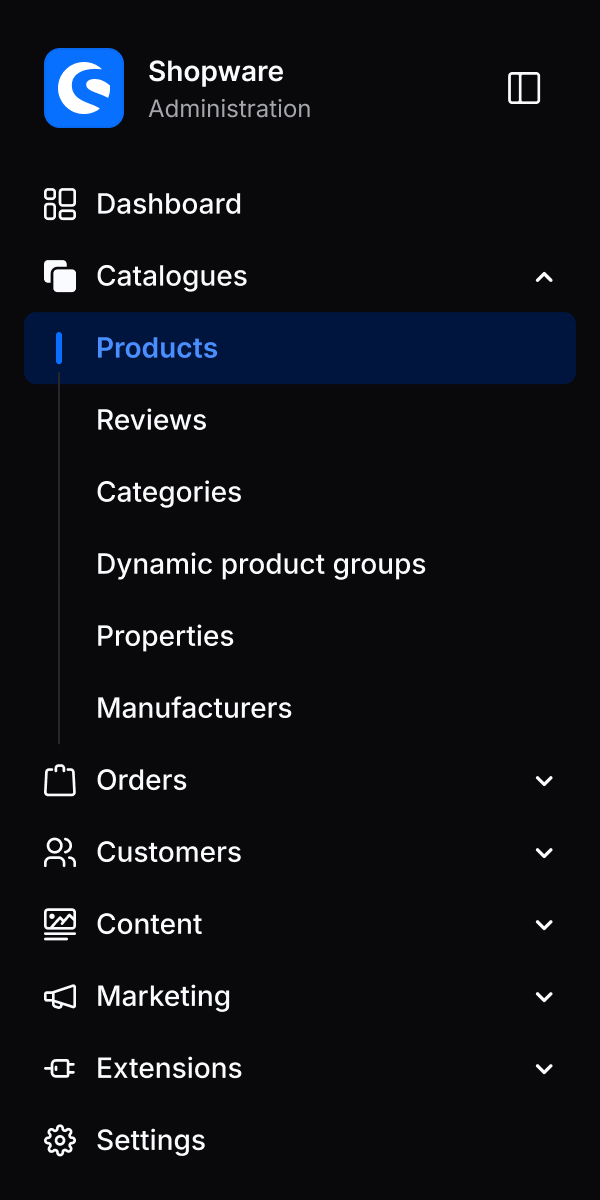
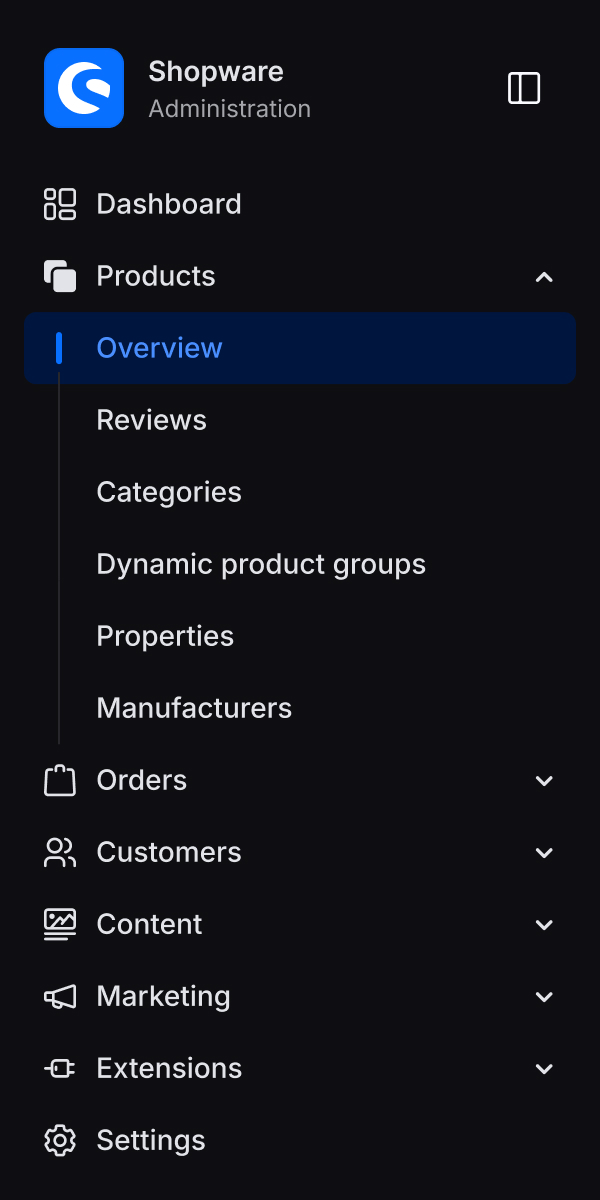
refactor: rename catalogues menu group to products (#20452)

Changed region(s): [[0.15, 0.2158, 0.42, 0.2467], [0.15, 0.2775, 0.36, 0.3083], [0.06, 0.925, 0.12, 0.9867]]

diff --git a/Resources/app/administration/src/module/sw-users-permissions/components/sw-users-permissions-permissions-grid/sw-users-permissions-permissions-grid.spec.js b/Resources/app/administration/src/module/sw-users-permissions/components/sw-users-permissions-permissions-grid/sw-users-permissions-permissions-grid.spec.js
@@ -1506,25 +1506,18 @@ describe('src/module/sw-users-permissions/components/sw-users-permissions-permis
         expect(gridEntries.at(1).classes()).toContain('sw-users-permissions-permissions-grid__parent_catalogues');
         expect(gridEntries.at(2).classes()).toContain('sw-users-permissions-permissions-grid__entry_categories');
         expect(gridEntries.at(3).classes()).toContain('sw-users-permissions-permissions-grid__entry_product');
-
-        // other (null) with children
-        expect(gridEntries.at(4).classes()).toContain('sw-users-permissions-permissions-grid__parent_null');
-        expect(gridEntries.at(5).classes()).toContain('sw-users-permissions-permissions-grid__entry_sales_channel');
-
         // settings with children
-        expect(gridEntries.at(6).classes()).toContain('sw-users-permissions-permissions-grid__parent_settings');
-        expect(gridEntries.at(7).classes()).toContain('sw-users-permissions-permissions-grid__entry_currencies');
+        expect(gridEntries.at(4).classes()).toContain('sw-users-permissions-permissions-grid__parent_settings');
+        expect(gridEntries.at(5).classes()).toContain('sw-users-permissions-permissions-grid__entry_currencies');
+
+        // other (no parent) with children, always last
+        expect(gridEntries.at(6).classes()).toContain('sw-users-permissions-permissions-grid__parent_null');
+        expect(gridEntries.at(7).classes()).toContain('sw-users-permissions-permissions-grid__entry_sales_channel');
     });
 
-    it('should sort parents alphabetically with the label', async () => {
+    it('should sort parents in the order of the main navigation', async () => {
         const wrapper = await createWrapper({
             privilegesMappings: [
-                {
-                    category: 'permissions',
-                    key: 'categories',
-                    parent: 'orders',
-                    roles: {},
-                },
                 {
                     category: 'permissions',
                     key: 'currencies',
@@ -1539,6 +1532,24 @@ describe('src/module/sw-users-permissions/components/sw-users-permissions-permis
                 },
                 {
                     category: 'permissions',
+                    key: 'order',
+                    parent: 'orders',
+                    roles: {},
+                },
+                {
+                    category: 'permissions',
+                    key: 'promotion',
+                    parent: 'marketing',
+                    roles: {},
+                },
+                {
+                    category: 'permissions',
+                    key: 'customer',
+                    parent: 'customers',
+                    roles: {},
+                },
+                {
+                    category: 'permissions',
                     key: 'product',
                     parent: 'catalogues',
                     roles: {},
@@ -1546,14 +1557,97 @@ describe('src/module/sw-users-permissions/components/sw-users-permissions-permis
             ],
         });
 
-        const gridEntries = wrapper.findAll('.sw-users-permissions-permissions-grid__entry');
-        expect(gridEntries).toHaveLength(9);
+        const parentEntries = wrapper.findAll('.sw-users-permissions-permissions-grid__parent');
+        expect(parentEntries).toHaveLength(6);
 
-        // check if order is sorted alphabetically
-        expect(gridEntries.at(1).classes()).toContain('sw-users-permissions-permissions-grid__parent_catalogues');
-        expect(gridEntries.at(3).classes()).toContain('sw-users-permissions-permissions-grid__parent_content');
-        expect(gridEntries.at(5).classes()).toContain('sw-users-permissions-permissions-grid__parent_orders');
-        expect(gridEntries.at(7).classes()).toContain('sw-users-permissions-permissions-grid__parent_settings');
+        expect(parentEntries.at(0).classes()).toContain('sw-users-permissions-permissions-grid__parent_catalogues');
+        expect(parentEntries.at(1).classes()).toContain('sw-users-permissions-permissions-grid__parent_orders');
+        expect(parentEntries.at(2).classes()).toContain('sw-users-permissions-permissions-grid__parent_customers');
+        expect(parentEntries.at(3).classes()).toContain('sw-users-permissions-permissions-grid__parent_content');
+        expect(parentEntries.at(4).classes()).toContain('sw-users-permissions-permissions-grid__parent_marketing');
+        expect(parentEntries.at(5).classes()).toContain('sw-users-permissions-permissions-grid__parent_settings');
+    });
+
+    it('should sort unknown parents alphabetically after the known ones and "other" last', async () => {
+        const wrapper = await createWrapper({
+            privilegesMappings: [
+                {
+                    category: 'permissions',
+                    key: 'no_parent',
+                    parent: null,
+                    roles: {},
+                },
+                {
+                    category: 'permissions',
+                    key: 'zeta',
+                    parent: 'zeta_plugin',
+                    roles: {},
+                },
+                {
+                    category: 'permissions',
+                    key: 'currencies',
+                    parent: 'settings',
+                    roles: {},
+                },
+                {
+                    category: 'permissions',
+                    key: 'alpha',
+                    parent: 'alpha_plugin',
+                    roles: {},
+                },
+                {
+                    category: 'permissions',
+                    key: 'product',
+                    parent: 'catalogues',
+                    roles: {},
+                },
+            ],
+        });
+
+        const parentEntries = wrapper.findAll('.sw-users-permissions-permissions-grid__parent');
+        expect(parentEntries).toHaveLength(5);
+
+        expect(parentEntries.at(0).classes()).toContain('sw-users-permissions-permissions-grid__parent_catalogues');
+        expect(parentEntries.at(1).classes()).toContain('sw-users-permissions-permissions-grid__parent_settings');
+        expect(parentEntries.at(2).classes()).toContain('sw-users-permissions-permissions-grid__parent_alpha_plugin');
+        expect(parentEntries.at(3).classes()).toContain('sw-users-permissions-permissions-grid__parent_zeta_plugin');
+        expect(parentEntries.at(4).classes()).toContain('sw-users-permissions-permissions-grid__parent_null');
+    });
+
+    it('should label the catalogues parent with the products snippet', async () => {
+        const wrapper = await createWrapper({
+            privilegesMappings: [
+                {
+                    category: 'permissions',
+                    key: 'product',
+                    parent: 'catalogues',
+                    roles: {},
+                },
+                {
+                    category: 'permissions',
+                    key: 'currencies',
+                    parent: 'settings',
+                    roles: {},
+                },
+                {
+                    category: 'permissions',
+                    key: 'no_parent',
+                    parent: null,
+                    roles: {},
+                },
+            ],
+        });
+
+        const parentTitles = wrapper
+            .findAll('.sw-users-permissions-permissions-grid__parent')
+            .map((parent) => parent.find('.sw-users-permissions-permissions-grid__title').text());
+
+        // The privilege parent stays "catalogues" for extension compatibility, only the label moved on.
+        expect(parentTitles).toEqual([
+            'sw-privileges.permissions.parents.products',
+            'sw-privileges.permissions.parents.settings',
+            'sw-privileges.permissions.parents.other',
+        ]);
     });
 
     it('should sort children in parents alphabetically', async () => {

diff --git a/Resources/app/administration/src/module/sw-users-permissions/components/sw-users-permissions-permissions-grid/index.js b/Resources/app/administration/src/module/sw-users-permissions/components/sw-users-permissions-permissions-grid/index.js
@@ -70,12 +70,7 @@ export default {
 
                     return [...parents, privilege.parent];
                 }, [])
-                .sort((a, b) => {
-                    const labelA = this.$t(`sw-privileges.permissions.parents.${a || 'other'}`);
-                    const labelB = this.$t(`sw-privileges.permissions.parents.${b || 'other'}`);
-
-                    return labelA.localeCompare(labelB);
-                });
+                .sort((a, b) => this.compareParents(a, b));
         },
 
         usedDependencies() {
@@ -104,9 +99,57 @@ export default {
                 'deleter',
             ];
         },
+
+        // Mirrors the order of the main navigation; unknown parents follow alphabetically, "other" is last.
+        parentOrder() {
+            return [
+                'catalogues',
+                'orders',
+                'customers',
+                'content',
+                'marketing',
+                'settings',
+            ];
+        },
+
+        // Parents whose label lives under a snippet key that differs from the privilege parent itself.
+        parentSnippetKeys() {
+            return {
+                catalogues: 'products',
+            };
+        },
     },
 
     methods: {
+        parentLabel(parentValue) {
+            const key = parentValue || 'other';
+            const snippetKey = Object.hasOwn(this.parentSnippetKeys, key) ? this.parentSnippetKeys[key] : key;
+
+            return this.$t(`sw-privileges.permissions.parents.${snippetKey}`);
+        },
+
+        compareParents(a, b) {
+            const keyA = a || 'other';
+            const keyB = b || 'other';
+
+            const rank = (key) => {
+                if (key === 'other') {
+                    return this.parentOrder.length + 1;
+                }
+
+                const index = this.parentOrder.indexOf(key);
+
+                return index === -1 ? this.parentOrder.length : index;
+            };
+
+            const rankDiff = rank(keyA) - rank(keyB);
+            if (rankDiff !== 0) {
+                return rankDiff;
+            }
+
+            return this.parentLabel(a).localeCompare(this.parentLabel(b));
+        },
+
         changePermission(permissionKey, permissionRole) {
             const identifier = `${permissionKey}.${permissionRole}`;
 
@@ -168,7 +211,7 @@ export default {
         parentRoleTooltip(parentValue, role) {
             return this.$t('sw-users-permissions.roles.grid.tooltipParentRole', {
                 role: this.$t(`sw-privileges.roles.${role}`),
-                parent: this.$t(`sw-privileges.permissions.parents.${parentValue || 'other'}`),
+                parent: this.parentLabel(parentValue),
             });
         },
 
@@ -178,7 +221,7 @@ export default {
 
         parentAllTooltip(parentValue) {
             return this.$t('sw-users-permissions.roles.grid.tooltipParentAll', {
-                parent: this.$t(`sw-privileges.permissions.parents.${parentValue || 'other'}`),
+                parent: this.parentLabel(parentValue),
                 roles: this.allRolesLabel(),
             });
         },

diff --git a/Resources/app/administration/src/app/component/structure/sw-admin-menu-item/sw-admin-menu-item.spec/catalogues.ts b/Resources/app/administration/src/app/component/structure/sw-admin-menu-item/sw-admin-menu-item.spec/catalogues.ts
@@ -8,7 +8,7 @@
 export default {
     id: 'sw-catalogue',
     moduleType: 'core',
-    label: 'global.sw-admin-menu.navigation.mainMenuItemCatalogue',
+    label: 'global.sw-admin-menu.navigation.mainMenuItemProducts',
     color: 'var(--sw-color-module-green-default)',
     icon: 'regular-products',
     position: 20,
@@ -17,7 +17,7 @@ export default {
         {
             id: 'sw-product',
             moduleType: 'core',
-            label: 'sw-product.general.mainMenuItemGeneral',
+            label: 'sw-product.general.mainMenuItemOverview',
             color: 'var(--sw-color-module-green-default)',
             path: 'sw.product.index',
             icon: 'regular-products',
@@ -44,7 +44,7 @@ export default {
             path: 'sw.category.index',
             label: 'sw-category.general.mainMenuItemIndex',
             parent: 'sw-catalogue',
-            position: 20,
+            position: 25,
             children: [],
             level: 2,
         },

diff --git a/Resources/app/administration/src/module/sw-product/index.js b/Resources/app/administration/src/module/sw-product/index.js
@@ -263,14 +263,14 @@ Module.register('sw-product', {
     navigation: [
         {
             id: 'sw-catalogue',
-            label: 'global.sw-admin-menu.navigation.mainMenuItemCatalogue',
+            label: 'global.sw-admin-menu.navigation.mainMenuItemProducts',
             color: 'var(--sw-color-module-green-default)',
             icon: 'regular-products',
             position: 20,
         },
         {
             id: 'sw-product',
-            label: 'sw-product.general.mainMenuItemGeneral',
+            label: 'sw-product.general.mainMenuItemOverview',
             color: 'var(--sw-color-module-green-default)',
             path: 'sw.product.index',
             icon: 'regular-products',

diff --git a/Resources/app/administration/src/app/component/structure/sw-admin-menu-item/sw-admin-menu-item.spec/active-state.spec.ts b/Resources/app/administration/src/app/component/structure/sw-admin-menu-item/sw-admin-menu-item.spec/active-state.spec.ts
@@ -186,7 +186,7 @@ describe('src/app/component/structure/sw-admin-menu-item: active state', () => {
             props: {
                 entry: {
                     id: 'sw-catalogue',
-                    label: 'global.sw-admin-menu.navigation.mainMenuItemCatalogue',
+                    label: 'global.sw-admin-menu.navigation.mainMenuItemProducts',
                     icon: 'regular-products',
                     level: 1,
                     children: [

diff --git a/Resources/app/administration/src/module/sw-category/index.js b/Resources/app/administration/src/module/sw-category/index.js
@@ -204,7 +204,7 @@ Module.register('sw-category', {
             color: 'var(--sw-color-module-green-default)',
             parent: 'sw-catalogue',
             privilege: 'category.viewer',
-            position: 20,
+            position: 25,
         },
     ],
 

diff --git a/Resources/app/administration/technical-docs/02-architecture/03-module-system.md b/Resources/app/administration/technical-docs/02-architecture/03-module-system.md
@@ -123,7 +123,7 @@ routes: {
 navigation: [
     {
         id: 'sw-catalogue',
-        label: 'global.sw-admin-menu.navigation.mainMenuItemCatalogue',
+        label: 'global.sw-admin-menu.navigation.mainMenuItemProducts',
         color: '#57D9A3',
         icon: 'regular-products',
         position: 20
